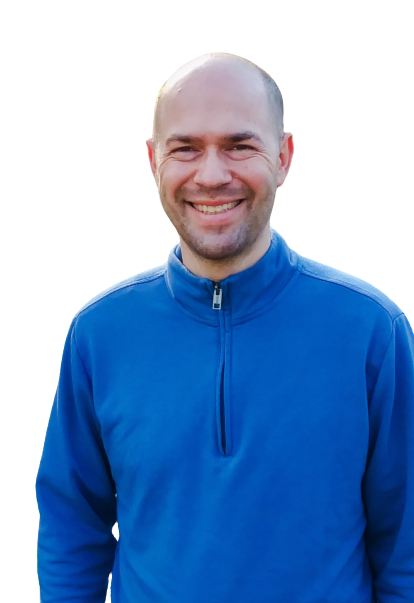
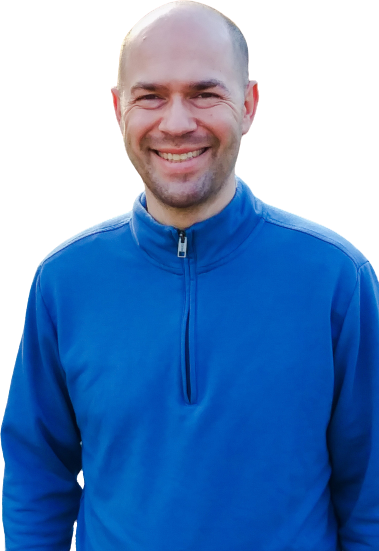
hero image cropped; layout for index.js and about.js adjusted

diff --git a/src/styles/index.module.css b/src/styles/index.module.css
@@ -20,7 +20,7 @@
 
   .heading {
     font-size: 4rem;
-    margin-top: 2.5rem;
+    margin-top: 0;
     margin-bottom: 5rem;
   }
 

diff --git a/src/styles/about.module.css b/src/styles/about.module.css
@@ -27,6 +27,7 @@
 
   .content-image {
     margin-right: 2rem;
+    align-self: flex-start;
   }
 }
 
